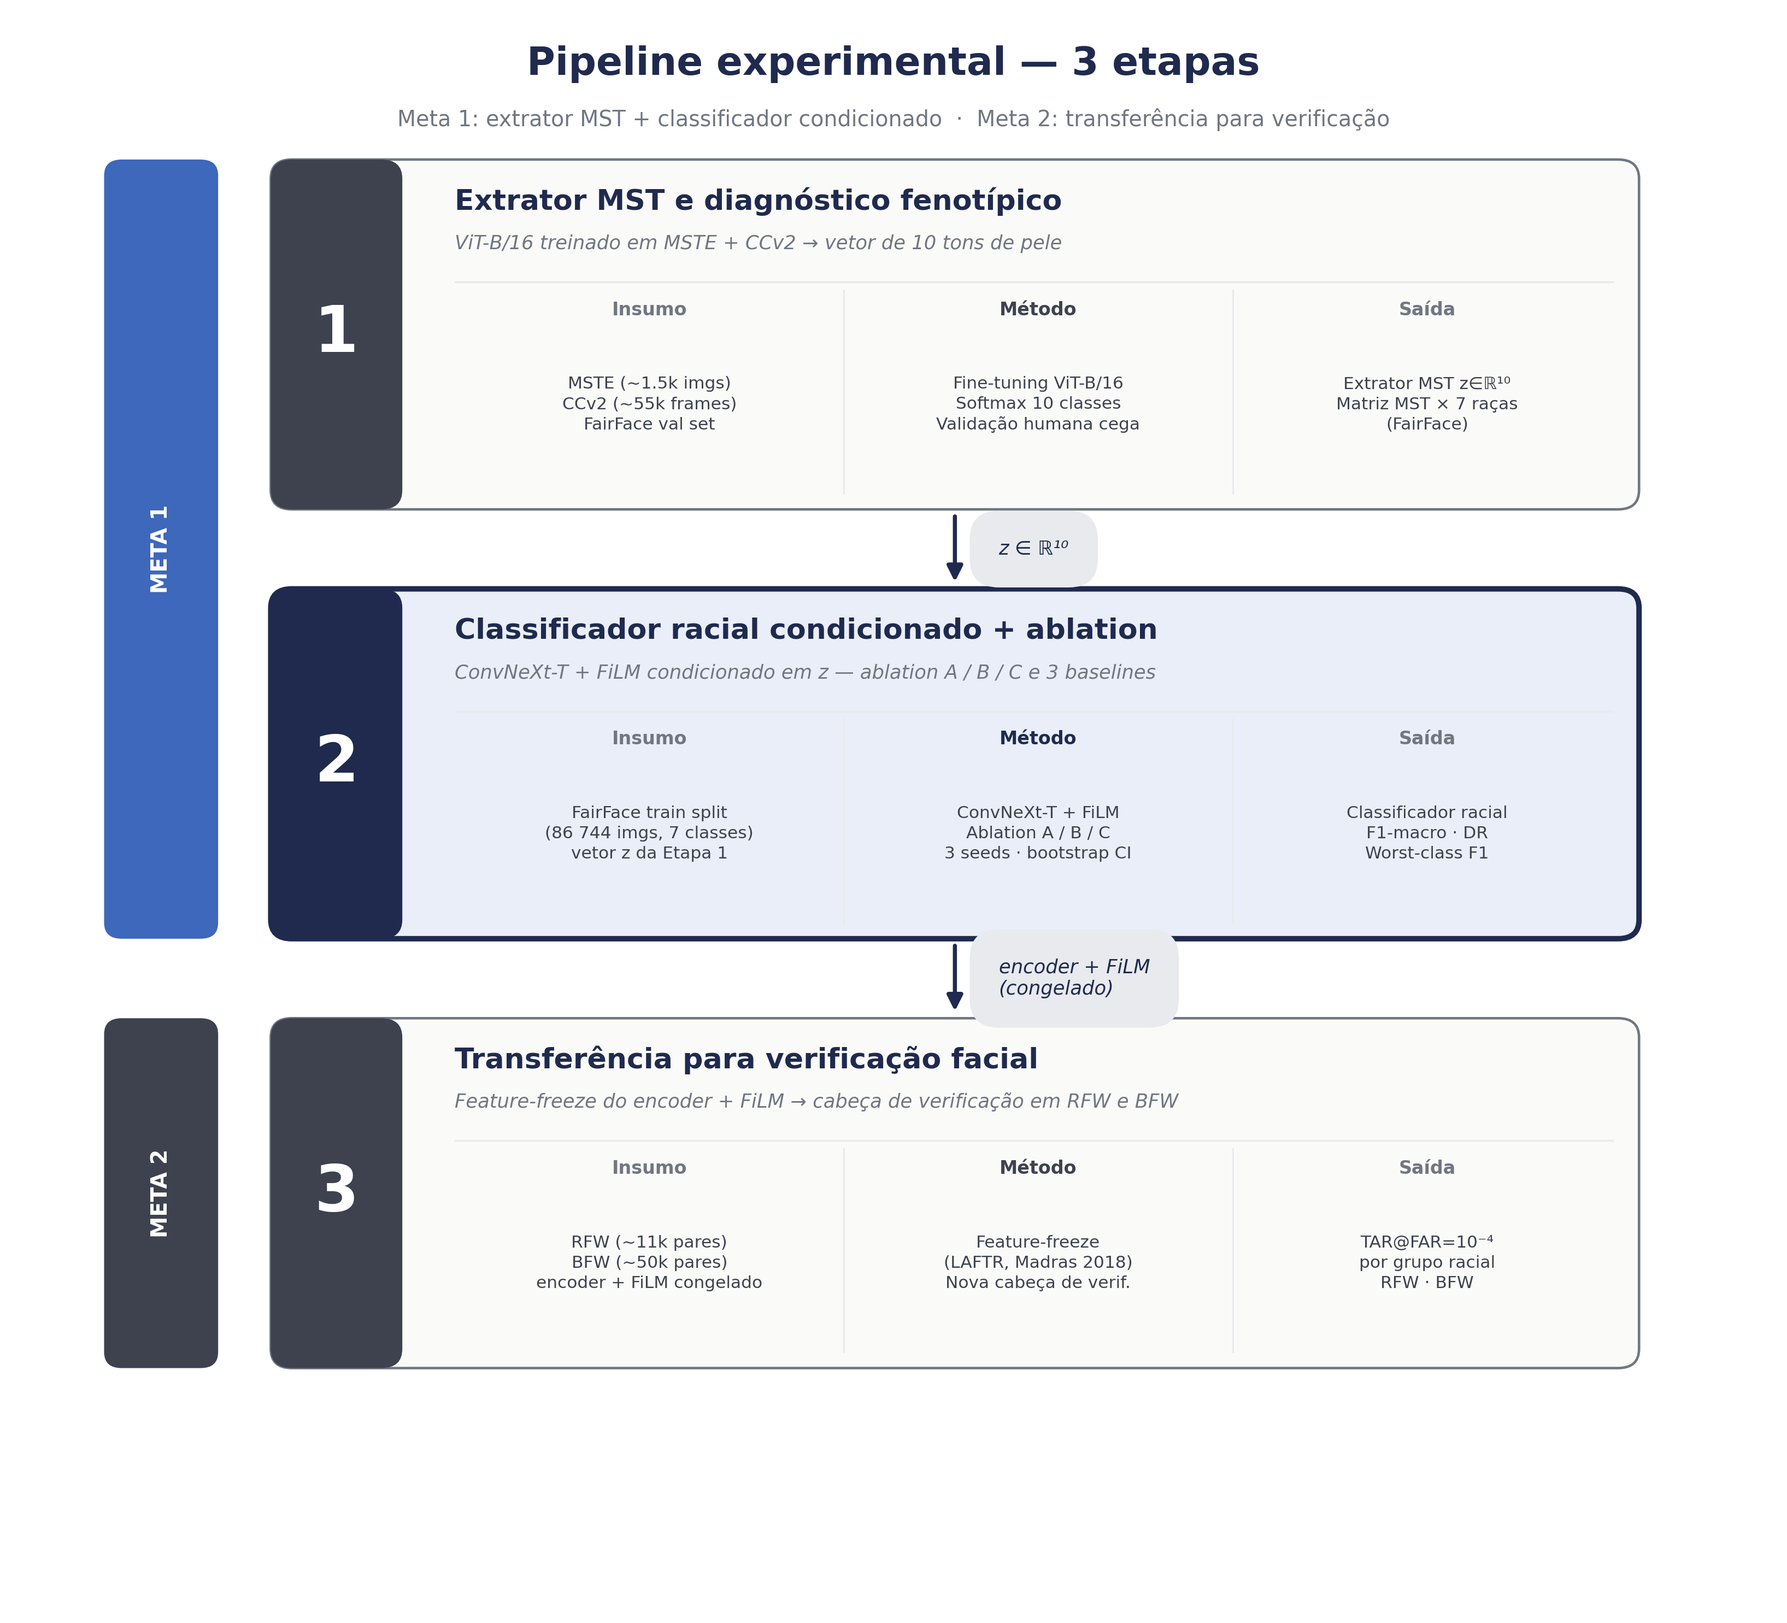
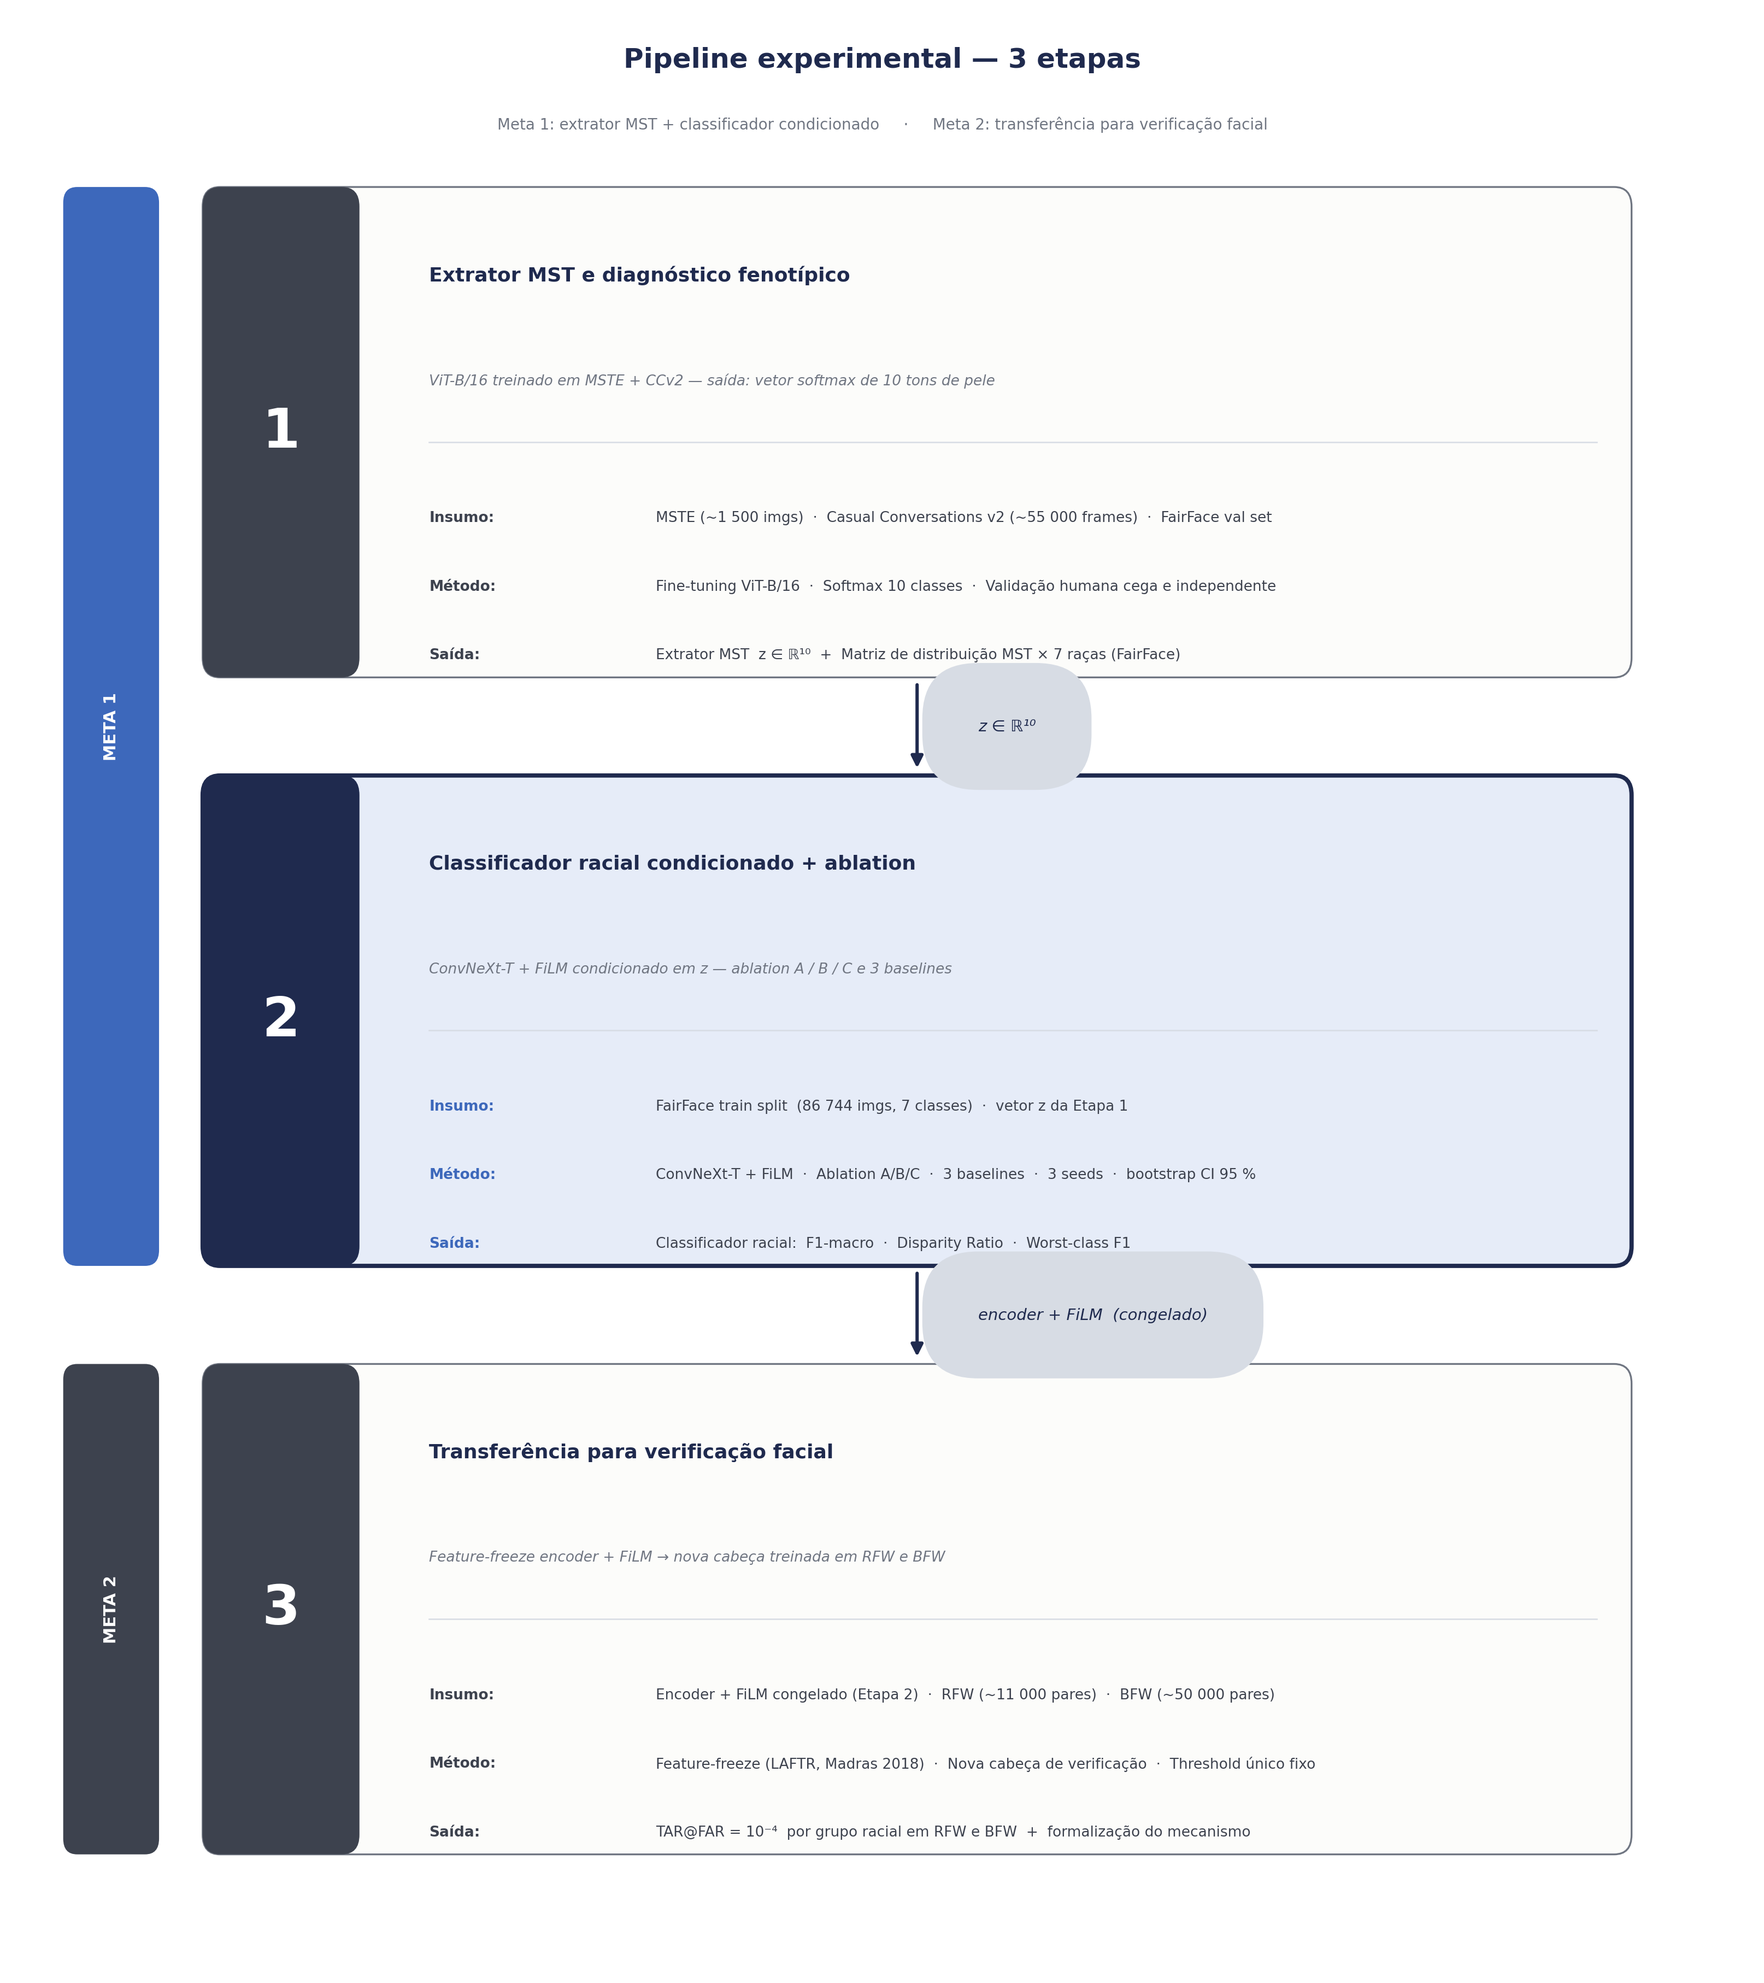
fix(tese): figura pipeline — layout corrigido, texto legível
- Math explícita para posicionamento dentro das caixas (sem overflow)
- BOX_H=25, GAP=5, 3 linhas Insumo/Método/Saída dentro de cada box
- Bug corrigido: barra META 1 agora cobre Etapas 1 e 2 (y_bot/y_top trocados)
- Fontes 9.5–13pt, sem sobreposição de elementos

diff --git a/docs/ativo/_gerar_imagem_pipeline_3etapas.py b/docs/ativo/_gerar_imagem_pipeline_3etapas.py
@@ -1,44 +1,66 @@
 """Gera figura do pipeline experimental em 3 etapas (Cap. 4 §4.2).
 
-Layout top-down, 1 coluna, com:
-    - 2 metas na barra lateral esquerda (META 1 / META 2)
-    - 3 caixas de etapa empilhadas com eyebrow, título, subtítulo
-      e grade 3 colunas: Insumo | Método | Saída
-    - Setas com rótulo de dado transferido entre etapas
-    - Etapa 2 (proposta principal) recebe destaque visual
+Layout corrigido: math explícita para posicionamento dentro das caixas,
+sem overflow. Texto left-aligned, fontes legíveis.
 
 Saida: docs/tese/images/fig_pipeline_6etapas.png
-  (mantém o nome para não quebrar a referência LaTeX existente)
 """
 
 from __future__ import annotations
-
-from dataclasses import dataclass, field
+from dataclasses import dataclass
 from pathlib import Path
+from typing import List
 
 import matplotlib.pyplot as plt
 from matplotlib.patches import FancyArrowPatch, FancyBboxPatch
 
 NAVY      = (31/255,  42/255,  78/255)
 NAVY_SOFT = (61/255, 104/255, 187/255)
-BLUE_TINT = (233/255, 238/255, 248/255)
+BLUE_TINT = (230/255, 236/255, 248/255)
 GRAY_DK   = (61/255,  66/255,  78/255)
 GRAY_MD   = (112/255, 118/255, 130/255)
-GRAY_LT   = (232/255, 234/255, 237/255)
-PAPER     = (250/255, 250/255, 248/255)
-ACCENT    = (192/255,  57/255,  43/255)
-GREEN     = (46/255,  125/255,  50/255)
+GRAY_LT   = (215/255, 220/255, 228/255)
+PAPER     = (252/255, 252/255, 250/255)
 WHITE     = (1.0, 1.0, 1.0)
 
+# ── coordenadas: 100 × 100 mapeado sobre FIG_W × FIG_H polegadas ─────────
+FIG_W, FIG_H = 16, 18        # polegadas
+UNIT_W = FIG_W / 100         # 0.16 polegadas por unidade horizontal
+UNIT_H = FIG_H / 100         # 0.18 polegadas por unidade vertical
 
-@dataclass(frozen=True)
+# ── geometria das caixas ─────────────────────────────────────────────────
+BOX_W   = 82.0
+BOX_H   = 25.0   # calculado: 3×25 + 2×5 (gap) = 85, sobram 6 unidades
+GAP     = 5.0
+BOX_X   = 11.0
+TOP_Y   = 91.0   # topo do box 1
+
+# posições das 3 caixas (y = canto inferior esquerdo)
+#   box1_top = TOP_Y → box1_bottom = TOP_Y - BOX_H = 66
+#   box2_top = 66 - GAP = 61  → box2_bottom = 36
+#   box3_top = 36 - GAP = 31  → box3_bottom = 6
+
+# ── layout INTERNO de cada caixa (relativo ao canto inferior y) ──────────
+# Reserva simétrica: INNER_TOP = 4, INNER_BOT = 1.5 (va="top" → ok)
+TITLE_Y   = BOX_H - 4.0      # 21.0  topo do título
+SUB_Y     = BOX_H - 9.5      # 15.5  topo do subtítulo
+SEP_Y     = BOX_H - 13.0     # 12.0  y da linha separadora
+ROW0_Y    = BOX_H - 16.5     #  8.5  topo da 1ª linha de dados
+ROW1_Y    = BOX_H - 20.0     #  5.0
+ROW2_Y    = BOX_H - 23.5     #  1.5  (ainda acima do fundo: 1.5 unidades)
+
+STRIP_W   = 9.0
+TEXT_X    = BOX_X + STRIP_W + 4.0          # início do texto à direita da faixa
+LABEL_W   = 13.0                            # largura da coluna do rótulo
+VALUE_X   = TEXT_X + LABEL_W               # início do valor
+
+
+@dataclass
 class Stage:
     number: int
     title: str
     subtitle: str
-    insumo: str
-    metodo: str
-    saida: str
+    rows: List[tuple]    # (label, value)
     highlight: bool = False
 
 
@@ -46,27 +68,33 @@ STAGES = [
     Stage(
         1,
         "Extrator MST e diagnóstico fenotípico",
-        "ViT-B/16 treinado em MSTE + CCv2 → vetor de 10 tons de pele",
-        insumo="MSTE (~1.5k imgs)\nCCv2 (~55k frames)\nFairFace val set",
-        metodo="Fine-tuning ViT-B/16\nSoftmax 10 classes\nValidação humana cega",
-        saida="Extrator MST z∈ℝ¹⁰\nMatriz MST × 7 raças\n(FairFace)",
+        "ViT-B/16 treinado em MSTE + CCv2 — saída: vetor softmax de 10 tons de pele",
+        rows=[
+            ("Insumo", "MSTE (~1 500 imgs)  ·  Casual Conversations v2 (~55 000 frames)  ·  FairFace val set"),
+            ("Método", "Fine-tuning ViT-B/16  ·  Softmax 10 classes  ·  Validação humana cega e independente"),
+            ("Saída",  "Extrator MST  z ∈ ℝ¹⁰  +  Matriz de distribuição MST × 7 raças (FairFace)"),
+        ],
     ),
     Stage(
         2,
         "Classificador racial condicionado + ablation",
         "ConvNeXt-T + FiLM condicionado em z — ablation A / B / C e 3 baselines",
-        insumo="FairFace train split\n(86 744 imgs, 7 classes)\nvetor z da Etapa 1",
-        metodo="ConvNeXt-T + FiLM\nAblation A / B / C\n3 seeds · bootstrap CI",
-        saida="Classificador racial\nF1-macro · DR\nWorst-class F1",
+        rows=[
+            ("Insumo", "FairFace train split  (86 744 imgs, 7 classes)  ·  vetor z da Etapa 1"),
+            ("Método", "ConvNeXt-T + FiLM  ·  Ablation A/B/C  ·  3 baselines  ·  3 seeds  ·  bootstrap CI 95 %"),
+            ("Saída",  "Classificador racial:  F1-macro  ·  Disparity Ratio  ·  Worst-class F1"),
+        ],
         highlight=True,
     ),
     Stage(
         3,
         "Transferência para verificação facial",
-        "Feature-freeze do encoder + FiLM → cabeça de verificação em RFW e BFW",
-        insumo="RFW (~11k pares)\nBFW (~50k pares)\nencoder + FiLM congelado",
-        metodo="Feature-freeze\n(LAFTR, Madras 2018)\nNova cabeça de verif.",
-        saida="TAR@FAR=10⁻⁴\npor grupo racial\nRFW · BFW",
+        "Feature-freeze encoder + FiLM → nova cabeça treinada em RFW e BFW",
+        rows=[
+            ("Insumo", "Encoder + FiLM congelado (Etapa 2)  ·  RFW (~11 000 pares)  ·  BFW (~50 000 pares)"),
+            ("Método", "Feature-freeze (LAFTR, Madras 2018)  ·  Nova cabeça de verificação  ·  Threshold único fixo"),
+            ("Saída",  "TAR@FAR = 10⁻⁴  por grupo racial em RFW e BFW  +  formalização do mecanismo"),
+        ],
     ),
 ]
 
@@ -77,116 +105,135 @@ METAS = [
 
 ARROW_LABELS = {
     (1, 2): "z ∈ ℝ¹⁰",
-    (2, 3): "encoder + FiLM\n(congelado)",
+    (2, 3): "encoder + FiLM  (congelado)",
 }
 
 
-def _box(ax, x, y, w, h, fc, ec, lw=1.2, rounding=0.8):
+def _box(ax, x, y, w, h, fc, ec, lw=1.2, rounding=0.6, zorder=2):
     ax.add_patch(FancyBboxPatch(
         (x, y), w, h,
         boxstyle=f"round,pad=0.0,rounding_size={rounding}",
-        fc=fc, ec=ec, lw=lw,
+        fc=fc, ec=ec, lw=lw, zorder=zorder,
     ))
 
 
-def _arrow_with_label(ax, cx, y_from, y_to, label: str, col=NAVY):
-    ax.add_patch(FancyArrowPatch(
-        (cx, y_from), (cx, y_to),
-        arrowstyle="-|>", color=col, lw=1.8,
-        mutation_scale=14, shrinkA=1, shrinkB=1,
-    ))
-    mid = (y_from + y_to) / 2
-    ax.text(cx + 2.5, mid, label,
-            ha="left", va="center",
-            color=col, fontsize=8.5, style="italic",
-            bbox=dict(fc=GRAY_LT, ec="none", pad=1.5, boxstyle="round"))
-
-
-def _draw_stage(ax, stage: Stage, x: float, y: float, w: float, h: float) -> None:
+def _draw_stage(ax, stage: Stage, x: float, y: float):
+    w, h = BOX_W, BOX_H
     highlighted = stage.highlight
     body_fc = BLUE_TINT if highlighted else PAPER
-    body_ec = NAVY if highlighted else GRAY_MD
-    body_lw = 2.4 if highlighted else 1.1
-    _box(ax, x, y, w, h, fc=body_fc, ec=body_ec, lw=body_lw, rounding=1.2)
+    body_ec = NAVY       if highlighted else GRAY_MD
+    body_lw = 2.8        if highlighted else 1.2
 
-    strip_w = 7.5
-    strip_fc = NAVY if highlighted else GRAY_DK
-    _box(ax, x, y, strip_w, h, fc=strip_fc, ec=strip_fc, lw=0, rounding=1.2)
-    ax.text(x + strip_w / 2, y + h / 2, str(stage.number),
-            ha="center", va="center", color=WHITE, fontsize=28, fontweight="bold")
+    # caixa externa
+    _box(ax, x, y, w, h, fc=body_fc, ec=body_ec, lw=body_lw, rounding=1.0)
 
-    tx = x + strip_w + 3.0
-    inner_w = w - strip_w - 4.0
-    ax.text(tx, y + h * 0.88, stage.title,
-            ha="left", va="center", color=NAVY, fontsize=12.5, fontweight="bold")
-    ax.text(tx, y + h * 0.76, stage.subtitle,
-            ha="left", va="center", color=GRAY_MD, fontsize=8.5, style="italic")
+    # faixa do número
+    fc_strip = NAVY if highlighted else GRAY_DK
+    _box(ax, x, y, STRIP_W, h, fc=fc_strip, ec=fc_strip, lw=0, rounding=1.0, zorder=3)
+    ax.text(x + STRIP_W / 2, y + h / 2, str(stage.number),
+            ha="center", va="center",
+            color=WHITE, fontsize=36, fontweight="bold", zorder=4)
 
-    sep_y = y + h * 0.65
-    ax.plot([tx, x + w - 1.5], [sep_y, sep_y], color=GRAY_LT, lw=0.8)
+    tx = TEXT_X    # x do texto
+    mx = x + w - 2 # x máximo
 
-    col_w = inner_w / 3
-    headers = ["Insumo", "Método", "Saída"]
-    contents = [stage.insumo, stage.metodo, stage.saida]
-    header_colors = [GRAY_MD, NAVY if highlighted else GRAY_DK, GRAY_MD]
+    # título
+    ax.text(tx, y + TITLE_Y, stage.title,
+            ha="left", va="top",
+            color=NAVY, fontsize=13, fontweight="bold", zorder=4)
 
-    for ci, (hdr, content, hcol) in enumerate(zip(headers, contents, header_colors)):
-        cx_col = tx + ci * col_w + col_w / 2
-        ax.text(cx_col, y + h * 0.57, hdr,
-                ha="center", va="center", color=hcol, fontsize=8.0,
-                fontweight="bold")
-        ax.text(cx_col, y + h * 0.30, content,
-                ha="center", va="center", color=GRAY_DK, fontsize=7.5,
-                linespacing=1.35)
-        if ci < 2:
-            vx = tx + (ci + 1) * col_w
-            ax.plot([vx, vx], [y + 1, sep_y - 0.5], color=GRAY_LT, lw=0.7)
+    # subtítulo
+    ax.text(tx, y + SUB_Y, stage.subtitle,
+            ha="left", va="top",
+            color=GRAY_MD, fontsize=9.5, style="italic", zorder=4)
+
+    # separador
+    ax.plot([tx, mx], [y + SEP_Y, y + SEP_Y], color=GRAY_LT, lw=0.9, zorder=4)
+
+    # linhas de dados
+    row_ys = [ROW0_Y, ROW1_Y, ROW2_Y]
+    lbl_col = NAVY_SOFT if highlighted else GRAY_DK
+
+    for (lbl, val), ry in zip(stage.rows, row_ys):
+        ax.text(tx, y + ry, f"{lbl}:",
+                ha="left", va="top",
+                color=lbl_col, fontsize=9.5, fontweight="bold", zorder=4)
+        ax.text(VALUE_X, y + ry, val,
+                ha="left", va="top",
+                color=GRAY_DK, fontsize=9.5, zorder=4)
+
+
+def _arrow_between(ax, cx, y_top_prev, y_bot_next, label: str):
+    """Seta do fundo de uma caixa para o topo da próxima."""
+    y_from = y_top_prev        # fundo da caixa anterior
+    y_to   = y_bot_next        # topo da caixa seguinte
+    mid_y  = (y_from + y_to) / 2
+
+    ax.add_patch(FancyArrowPatch(
+        (cx, y_from - 0.3), (cx, y_to + 0.3),
+        arrowstyle="-|>", color=NAVY, lw=2.2,
+        mutation_scale=16, shrinkA=1, shrinkB=1, zorder=5,
+    ))
+    # rótulo do dado transferido — à direita da seta
+    ax.text(cx + 3.5, mid_y, label,
+            ha="left", va="center",
+            color=NAVY, fontsize=10.5, style="italic", fontweight="medium",
+            bbox=dict(fc=GRAY_LT, ec="none", pad=3.5, boxstyle="round"),
+            zorder=6)
 
 
 def build_figure(out_path: Path) -> None:
-    fig, ax = plt.subplots(figsize=(11, 10), dpi=300)
+    fig, ax = plt.subplots(figsize=(FIG_W, FIG_H), dpi=200)
     ax.set_xlim(0, 100)
     ax.set_ylim(0, 100)
     ax.axis("off")
     fig.patch.set_facecolor("white")
 
-    ax.text(50, 97, "Pipeline experimental — 3 etapas",
-            ha="center", va="center", color=NAVY, fontsize=17, fontweight="bold")
-    ax.text(50, 93.5,
-            "Meta 1: extrator MST + classificador condicionado  ·  Meta 2: transferência para verificação",
-            ha="center", va="center", color=GRAY_MD, fontsize=9.5)
+    # cabeçalho
+    ax.text(50, 97.5, "Pipeline experimental — 3 etapas",
+            ha="center", va="center",
+            color=NAVY, fontsize=18, fontweight="bold")
+    ax.text(50, 94.2,
+            "Meta 1: extrator MST + classificador condicionado     ·     Meta 2: transferência para verificação facial",
+            ha="center", va="center", color=GRAY_MD, fontsize=10)
 
-    box_w = 78.0
-    box_h = 22.0
-    box_x = 14.5
-    top_y = 91.0
-    gap   = 5.0
+    # caixas
+    # box_y[i] = canto inferior esquerdo da caixa i (0-indexed)
+    box_y = [TOP_Y - BOX_H]  # box 0 (Etapa 1): y = 66
+    for _ in range(1, len(STAGES)):
+        box_y.append(box_y[-1] - BOX_H - GAP)
+    # box_y = [66, 36, 6]  verificado: 6 + 25 = 31 < 91 ✓
 
-    positions: dict[int, tuple[float, float]] = {}
-    for i, stage in enumerate(STAGES):
-        y = top_y - (i + 1) * box_h - i * gap
-        _draw_stage(ax, stage, box_x, y, box_w, box_h)
-        positions[stage.number] = (box_x, y)
+    for stage, y in zip(STAGES, box_y):
+        _draw_stage(ax, stage, BOX_X, y)
 
-    arrow_cx = box_x + box_w / 2
-    for i in range(1, len(STAGES)):
-        y_from = positions[i][1]
-        y_to   = positions[i + 1][1] + box_h
-        label  = ARROW_LABELS.get((i, i + 1), "")
-        _arrow_with_label(ax, arrow_cx, y_from - 0.3, y_to + 0.3, label)
+    # setas entre caixas (do fundo de i para o topo de i+1)
+    arrow_cx = BOX_X + BOX_W / 2
+    for i in range(len(STAGES) - 1):
+        y_from = box_y[i]                    # fundo da caixa i
+        y_to   = box_y[i + 1] + BOX_H       # topo da caixa i+1
+        label  = ARROW_LABELS.get((i + 1, i + 2), "")
+        _arrow_between(ax, arrow_cx, y_from, y_to, label)
 
-    for label, (start, end), color in METAS:
-        y_top = positions[start][1] + box_h
-        y_bot = positions[end][1]
-        bar_x, bar_w = 5.0, 6.5
-        _box(ax, bar_x, y_bot, bar_w, y_top - y_bot, fc=color, ec=color, lw=0, rounding=1.0)
-        ax.text(bar_x + bar_w / 2, (y_top + y_bot) / 2, label,
+    # barra lateral META 1 / META 2
+    BAR_X, BAR_W = 3.0, 5.5
+    meta_spans = {
+        1: (box_y[0], box_y[0] + BOX_H),    # Meta 1 — Etapa 1
+        2: (box_y[1], box_y[1] + BOX_H),    # Meta 1 — Etapa 2
+        3: (box_y[2], box_y[2] + BOX_H),    # Meta 2 — Etapa 3
+    }
+    for label, (start_stage, end_stage), color in METAS:
+        y_bot = meta_spans[end_stage][0]    # fundo da última etapa da meta
+        y_top = meta_spans[start_stage][1]  # topo da primeira etapa da meta
+        _box(ax, BAR_X, y_bot, BAR_W, y_top - y_bot,
+             fc=color, ec=color, lw=0, rounding=0.8)
+        ax.text(BAR_X + BAR_W / 2, (y_top + y_bot) / 2, label,
                 rotation=90, ha="center", va="center",
-                color=WHITE, fontsize=9.5, fontweight="bold")
+                color=WHITE, fontsize=11, fontweight="bold", zorder=4)
 
-    plt.tight_layout()
+    plt.tight_layout(pad=0.2)
     out_path.parent.mkdir(parents=True, exist_ok=True)
-    plt.savefig(str(out_path), dpi=300, bbox_inches="tight", facecolor="white")
+    plt.savefig(str(out_path), dpi=200, bbox_inches="tight", facecolor="white")
     plt.close(fig)
     print(f"Gerado: {out_path}")
     print(f"Tamanho: {out_path.stat().st_size / 1024:.1f} KB")
